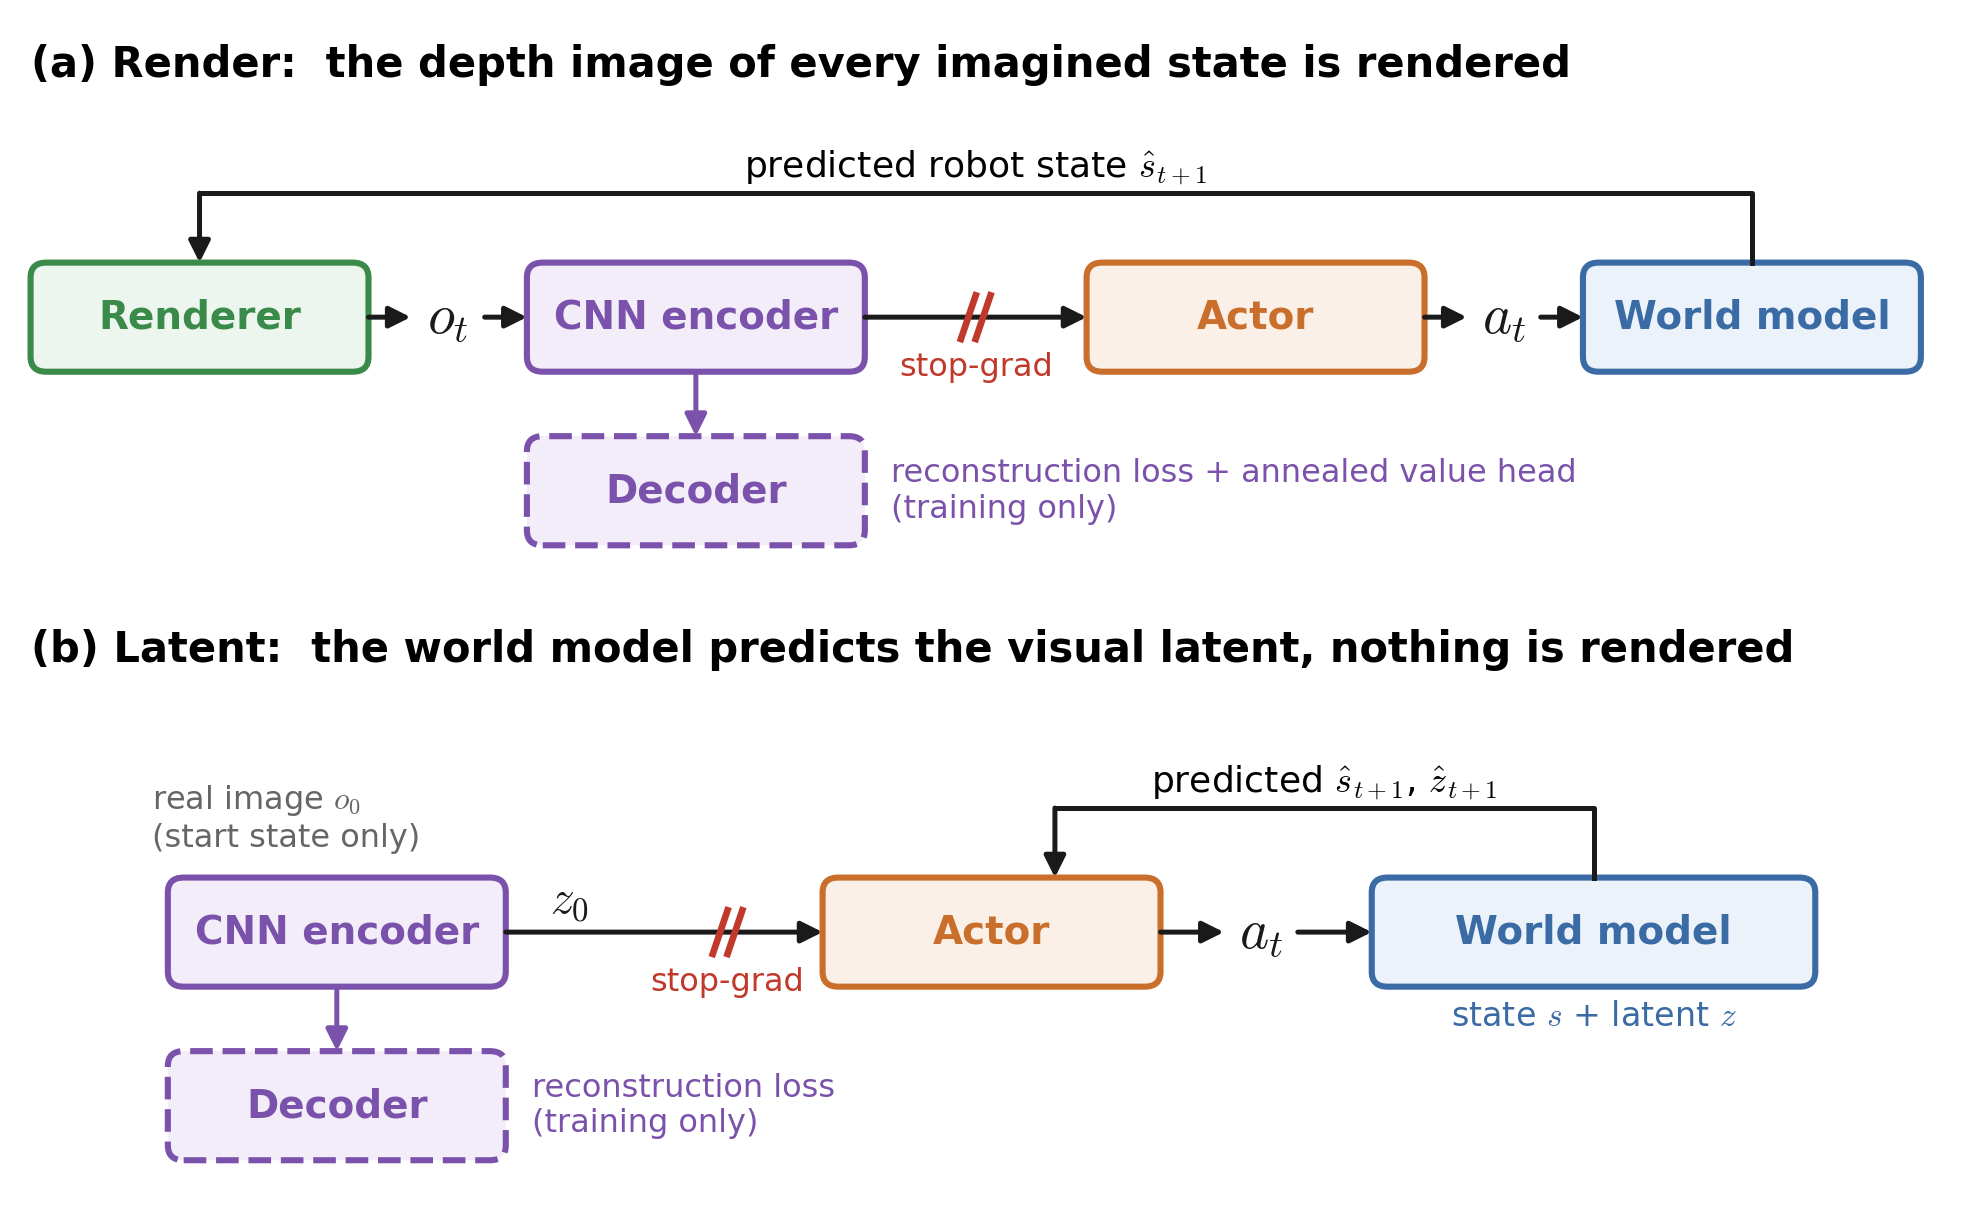
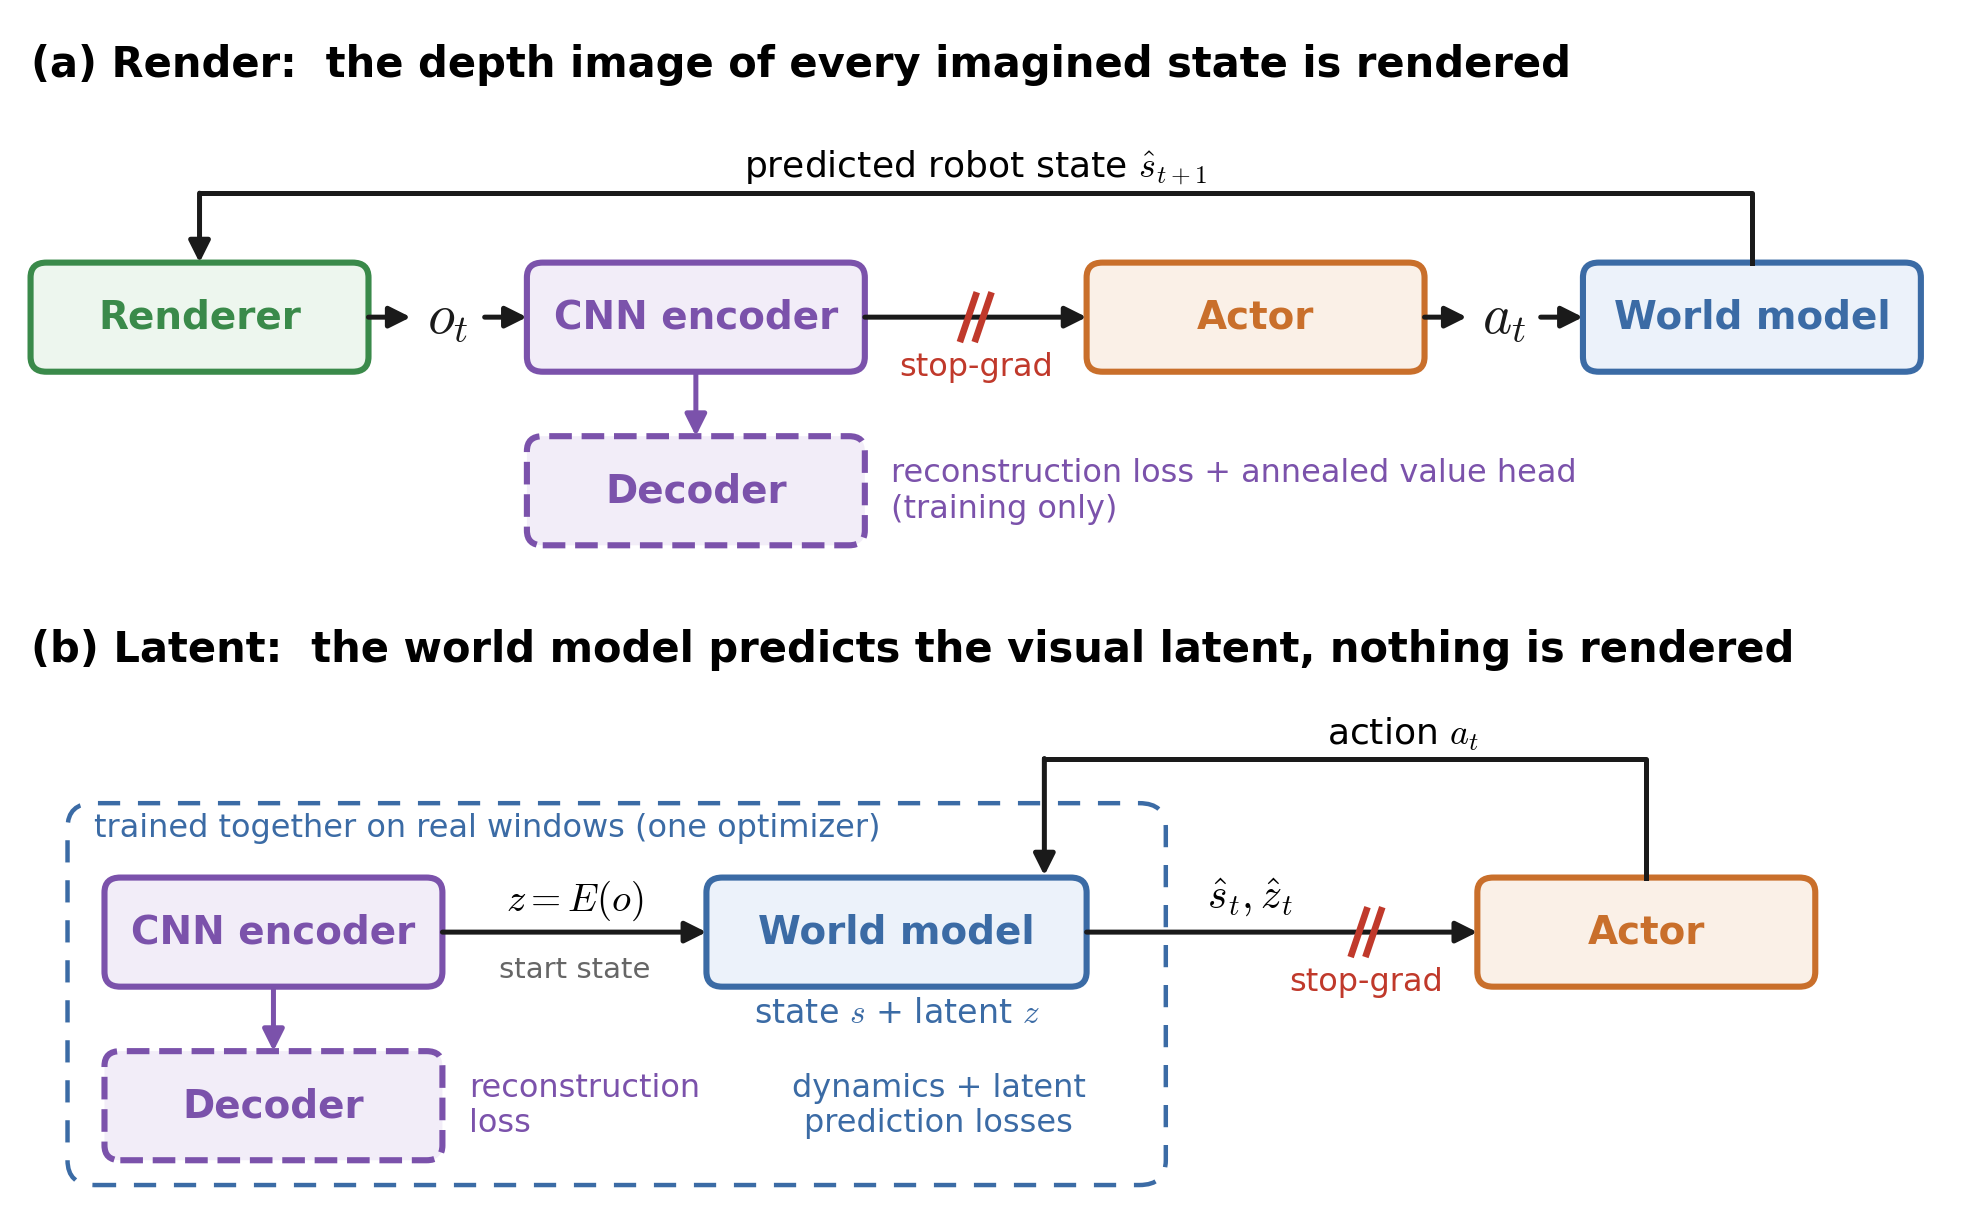
docs(supermimic): latent method figure — the encoder and decoder are fit with the world model

diff --git a/src/instinct_mj/rl/supermimic/README.md b/src/instinct_mj/rl/supermimic/README.md
@@ -32,9 +32,11 @@ reconstruction is what trains the depth encoder); `latent` rejects `aux_recon_we
 
 One imagination step of each method. (a) Render: the renderer casts the depth image of the predicted robot state, the CNN
 encoder's feature enters the actor through a stop-gradient, the action drives the (frozen) world model to the next state. (b) Latent:
-the CNN encodes the real depth image of the start state once, the world model predicts the next state and latent. In both, the
-policy gradient trains the actor only; the encoder is trained by a training-only decoder (reconstruction of the clean image), in
-(a) together with a value head annealed to 0.
+the CNN encodes the real depth image of the start state once, the world model predicts the next state and latent. In (b) the encoder
+and its decoder are part of the world model: they are fit together with it on real 8-step windows by one optimizer (dynamics, latent
+prediction against E(real image) with the target detached, and reconstruction, the encoder's only training signal). In (a) the
+encoder is trained separately by its decoder (reconstruction of the clean image) and a value head annealed to 0. In both, the
+policy gradient trains the actor only.
 
 ## Results
 
